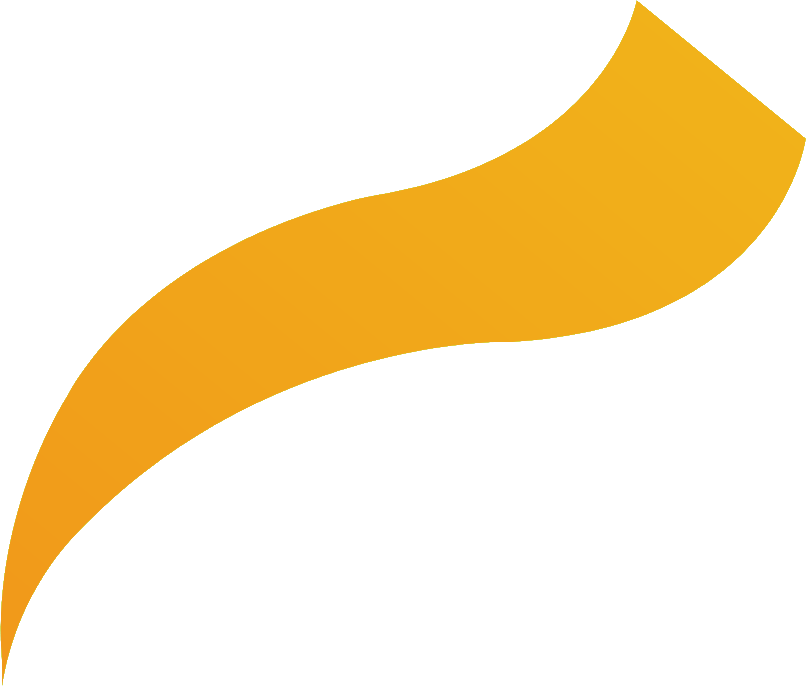
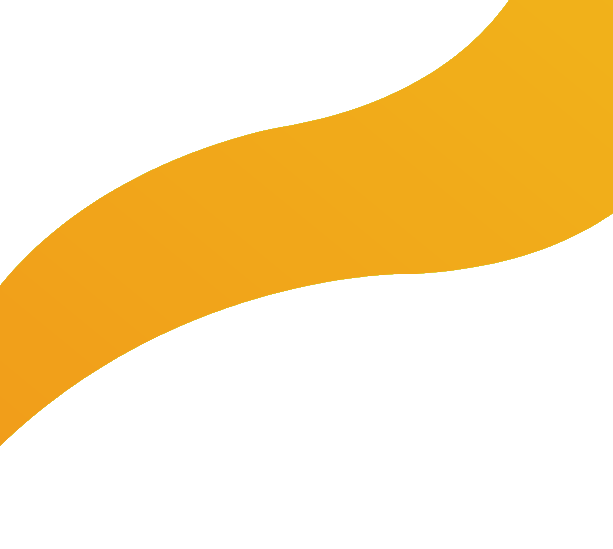
feat: trim garis.png to isolate stem line, add cabinet-corner-line ornament accents, and refine corner line placement in Light Mode

diff --git a/dasboard.html b/dasboard.html
@@ -856,6 +856,10 @@
         
         <!-- 1. GREETING HERO CARD -->
         <section class="greeting-card relative overflow-hidden">
+            <!-- CABINET CORNER LINE ACCENT (LIGHT MODE) -->
+            <div class="cabinet-decor absolute -top-10 -right-10 w-64 h-64 pointer-events-none opacity-30 overflow-hidden">
+                <img src="assetkabinet/garis.png" alt="Garis Kabinet" class="w-full h-full object-contain">
+            </div>
             <!-- CABINET ORNAMENT SHADES (LIGHT MODE) -->
             <div class="cabinet-decor absolute -right-6 -bottom-10 w-44 h-44 pointer-events-none opacity-40">
                 <img src="assetkabinet/bungaorangejelas.png" alt="Bunga Orange" class="w-full h-full object-contain">

diff --git a/lihat-kegiatan.html b/lihat-kegiatan.html
@@ -249,6 +249,16 @@
             box-shadow: 0 0 0 2px rgba(8, 145, 178, 0.15) !important;
         }
 
+        /* CABINET ORNAMENT SHADES & WATERMARK IN LIGHT MODE */
+        .cabinet-decor {
+            display: none;
+            pointer-events: none;
+            user-select: none;
+        }
+        html.light-mode .cabinet-decor {
+            display: block;
+        }
+
         /* SUBTLE AMBIENT BACKGROUND PARTICLES CANVAS */
         #particle-canvas {
             position: fixed;

diff --git a/riwayat-transaksi.html b/riwayat-transaksi.html
@@ -778,6 +778,16 @@
         .animate-pulse-sun {
             animation: pulse-sun 4s infinite ease-in-out;
         }
+        /* CABINET ORNAMENT SHADES & WATERMARK IN LIGHT MODE */
+        .cabinet-decor {
+            display: none;
+            pointer-events: none;
+            user-select: none;
+        }
+        html.light-mode .cabinet-decor {
+            display: block;
+        }
+
         #particle-canvas {
             position: fixed;
             top: 0;

diff --git a/pembayaran-kas.html b/pembayaran-kas.html
@@ -221,6 +221,16 @@
             opacity: 1 !important;
         }
 
+        /* CABINET ORNAMENT SHADES & WATERMARK IN LIGHT MODE */
+        .cabinet-decor {
+            display: none;
+            pointer-events: none;
+            user-select: none;
+        }
+        html.light-mode .cabinet-decor {
+            display: block;
+        }
+
         /* SUBTLE AMBIENT BACKGROUND PARTICLES CANVAS */
         #particle-canvas {
             position: fixed;
